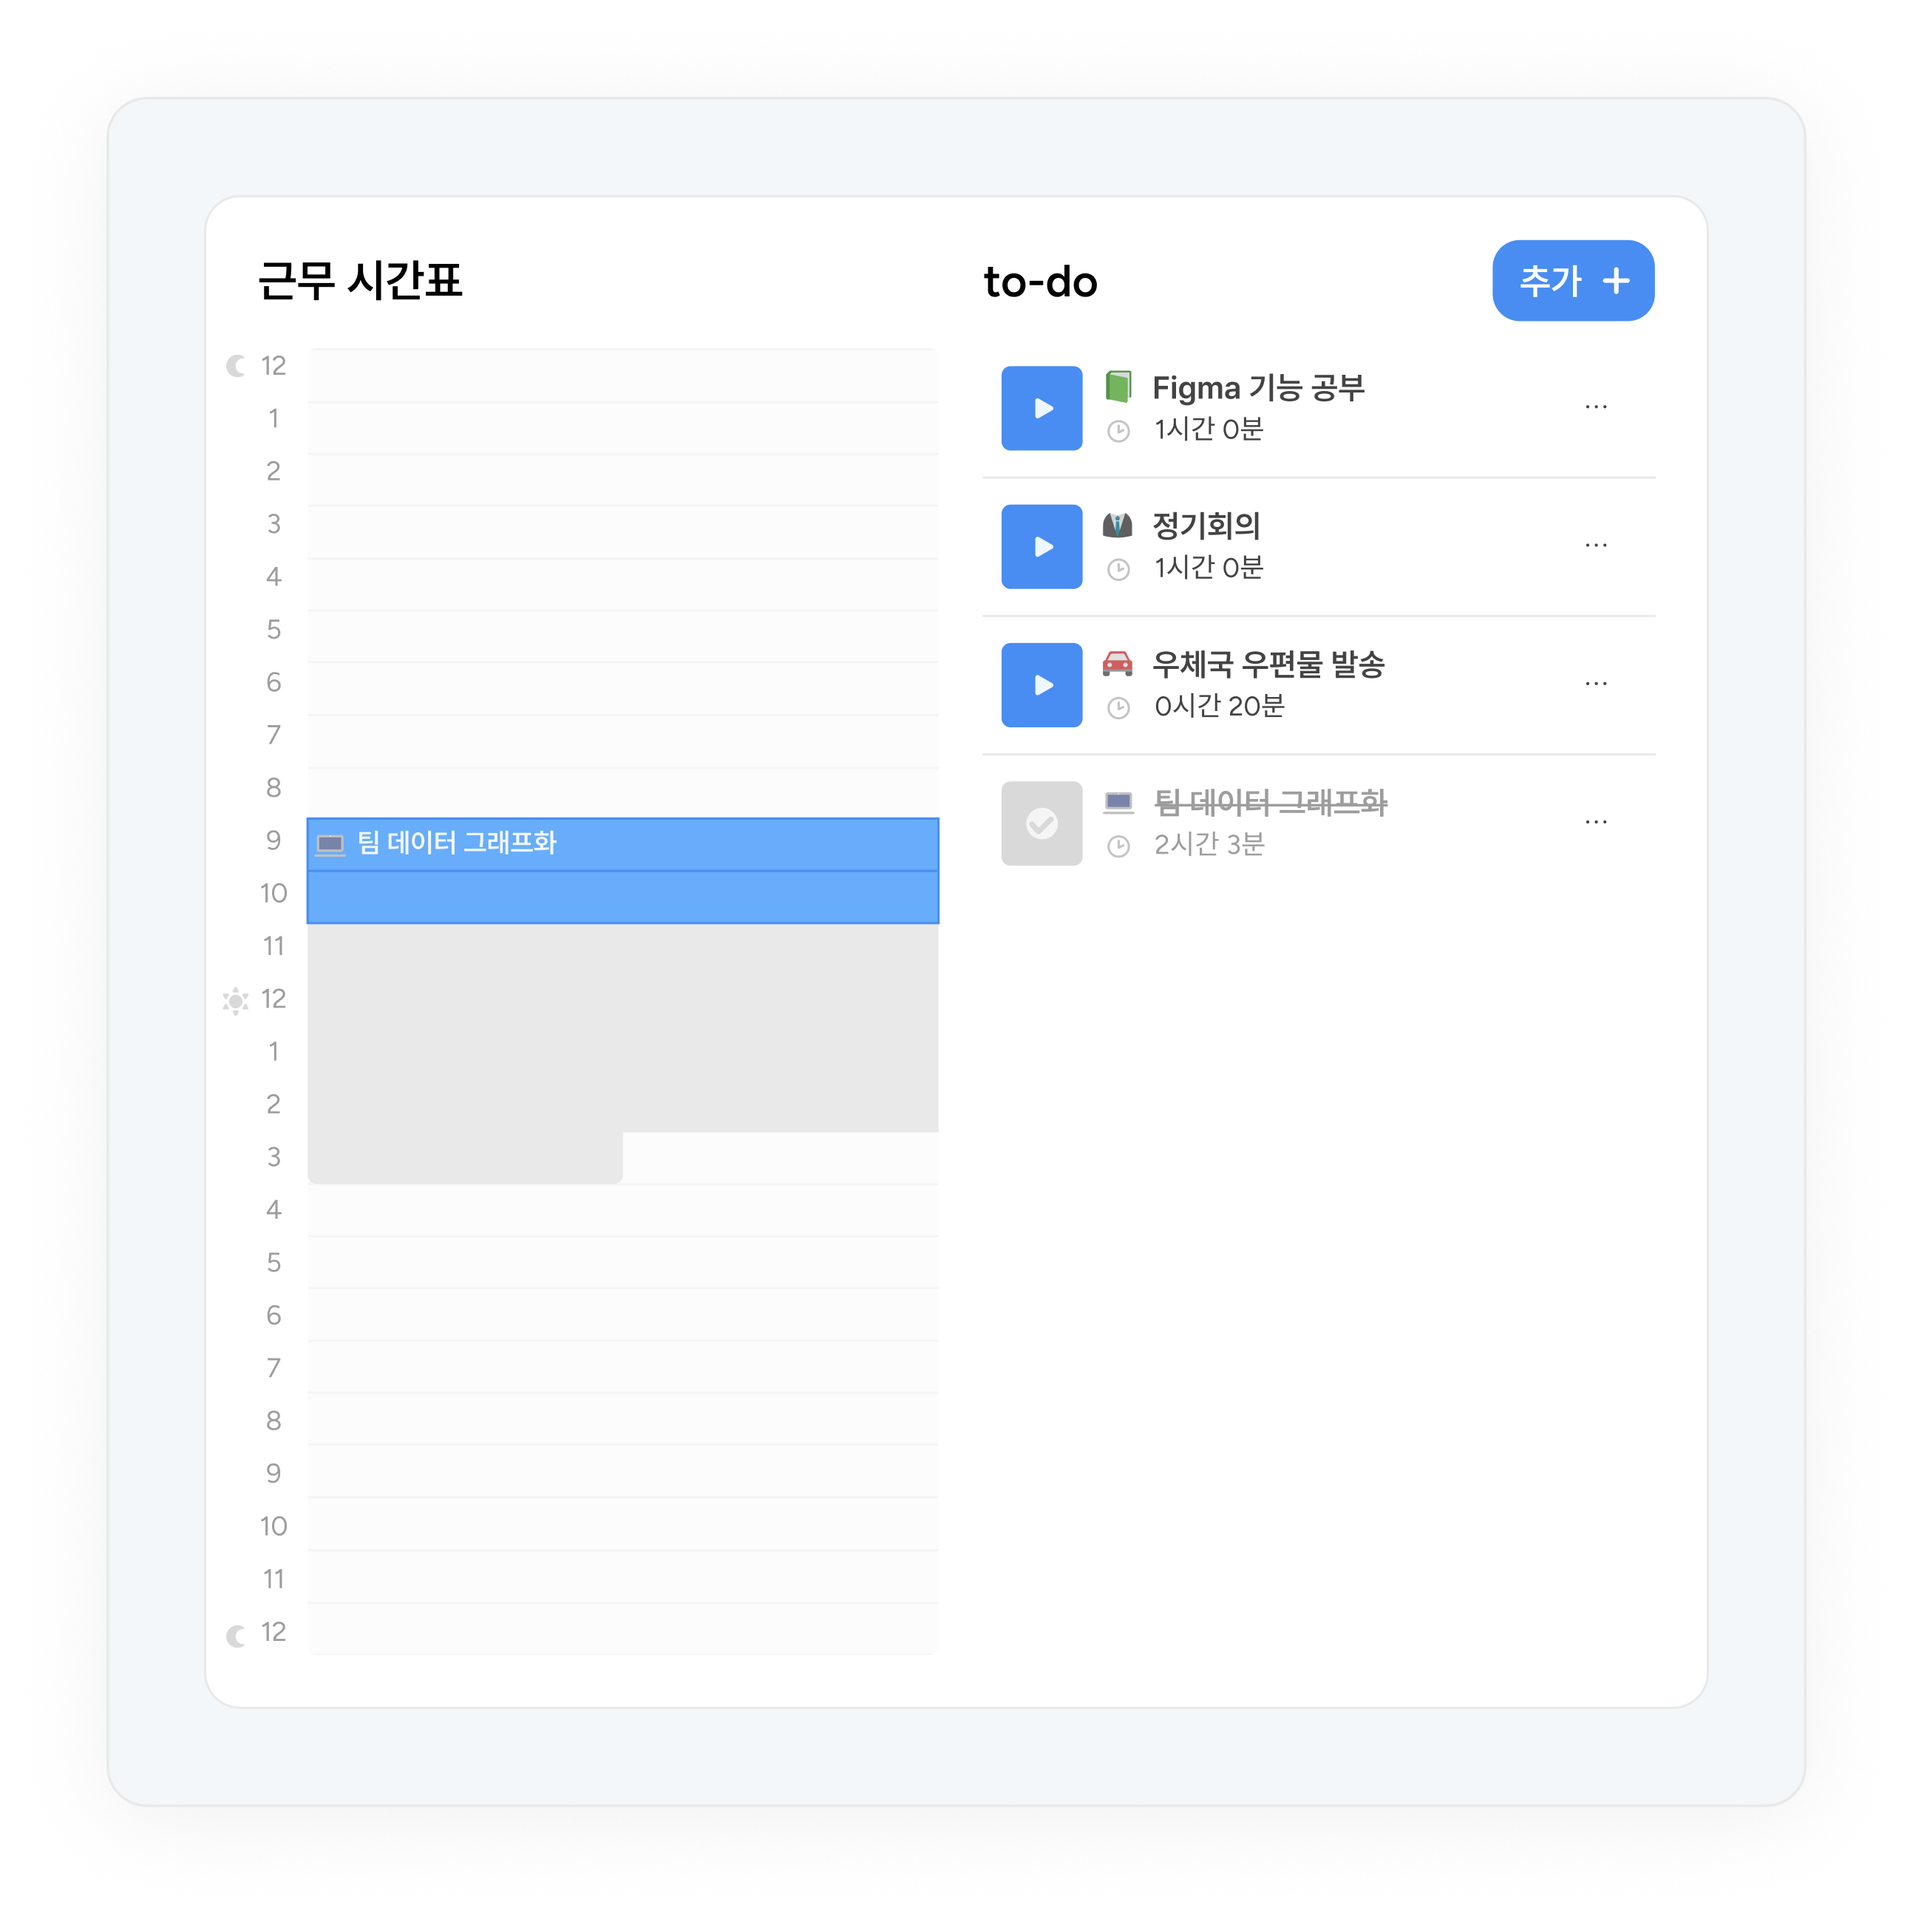
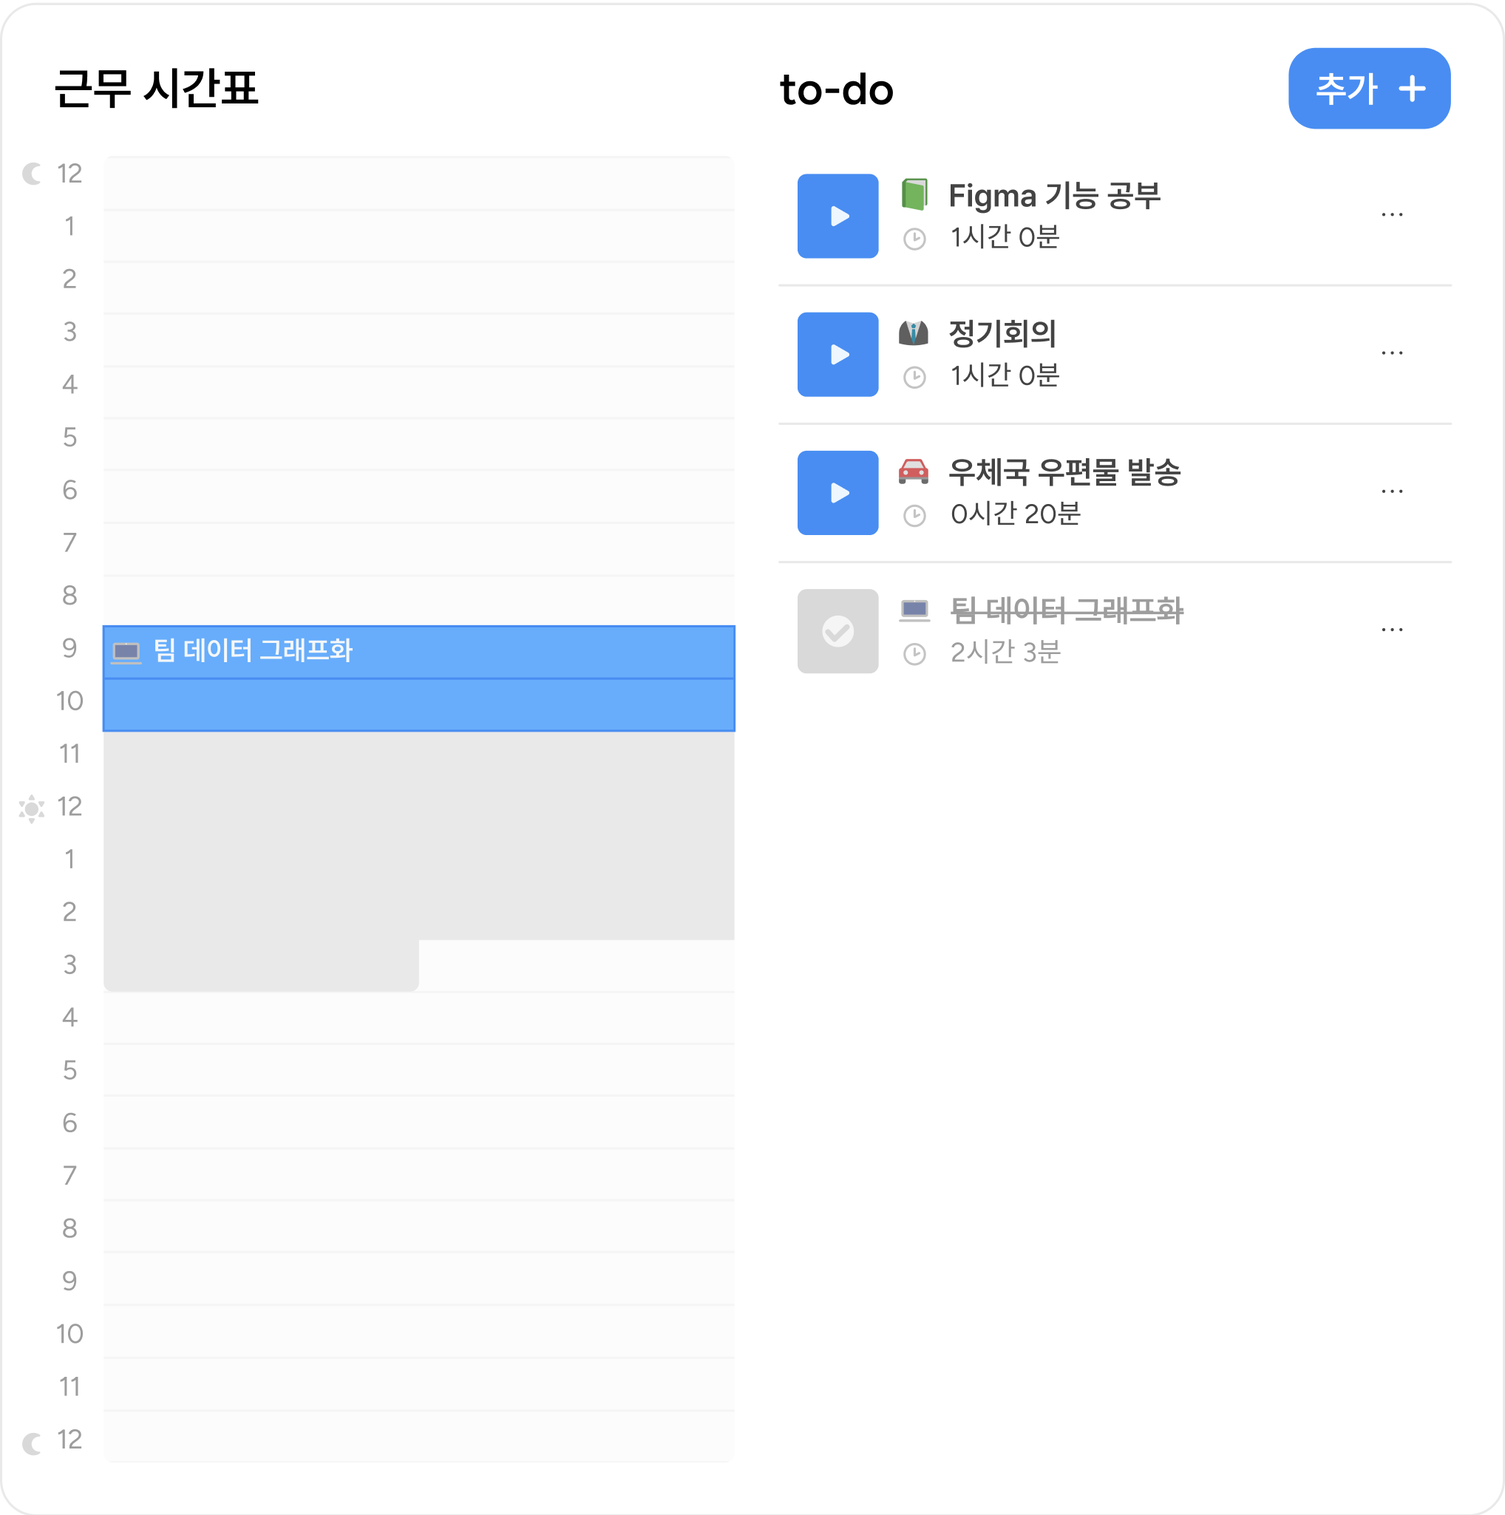
OFZ-46 style: 메인 3페이지 이미지 교체

diff --git a/src/app/page.tsx b/src/app/page.tsx
@@ -3,9 +3,15 @@
 import Image from 'next/image';
 import Header from '@/components/Header';
 import thumbnail from '../../public/thumbnail.png';
+import main_dashboard from 'public/main-dashboard.png';
+import main_todo from 'public/main-todo.png';
+import main_retro from 'public/main-retrospective.png';
+import main_ywt from 'public/main-ywt.png';
+import main_recap from 'public/main-recap.png';
 import TitleDesc from '@/components/TitleDesc';
 import {
   DASHBOARD_MAIN,
+  RECAP_MAIN,
   RECOMMEND_MAIN,
   RETROSPECT_MAIN,
   TODO_MAIN,
@@ -71,8 +77,8 @@ export default function MainPage() {
           />
           <div className={styles['second-main-image-wrapper']}>
             <Image
-              src={thumbnail}
-              alt="임시 이미지"
+              src={main_dashboard}
+              alt="메인 - 대시보드"
               className={styles['second-main-image']}
             />
           </div>
@@ -88,21 +94,21 @@ export default function MainPage() {
               />
             </section>
             <Image
-              src={thumbnail}
-              alt="임시 이미지"
+              src={main_todo}
+              alt="메인 - 투두"
               className={styles['third-main-image']}
             />
           </section>
         </section>
         <section className={styles['fourth-main']}>
           <Image
-            src={thumbnail}
-            alt="임시 이미지"
+            src={main_retro}
+            alt="메인 - 회고"
             className={styles['fourth-main-image']}
           />
           <Image
-            src={thumbnail}
-            alt="임시 서브 이미지"
+            src={main_ywt}
+            alt="메인 - YWT 회고"
             className={styles['fourth-main-sub-image']}
           />
           <section className={styles['fourth-main-text']}>
@@ -114,7 +120,16 @@ export default function MainPage() {
             />
           </section>
         </section>
-        <section className={styles['fifth-main']} />
+        <section className={styles['fifth-main']}>
+          <section className={styles['fifth-main-text']}>
+            <p className={styles['main-index']}>{RECAP_MAIN.index}</p>
+            <TitleDesc
+              title={RECAP_MAIN.title}
+              desc={RECAP_MAIN.desc}
+              sort="center"
+            />
+          </section>
+        </section>
         <section className={styles['sixth-main']}>
           <TitleDesc
             title={RECOMMEND_MAIN.title}

diff --git a/src/app/page.module.css b/src/app/page.module.css
@@ -41,9 +41,8 @@
 
 .second-main {
   width: 100%;
-  height: 100vh;
+  height: 63.75rem;
   margin-top: 5.25rem;
-  margin-bottom: 6.625rem;
   position: relative;
   display: flex;
   flex-direction: column;
@@ -60,14 +59,14 @@
 
 .second-main-image-wrapper {
   width: 100%;
-  height: 100%;
+  height: 42.875rem;
   position: relative;
   margin-top: 4rem;
 }
 
 .second-main-image {
-  width: 73%;
-  height: 58%;
+  width: 62.5rem;
+  height: 36.25rem;
   border-radius: 1.91206rem;
   object-fit: cover;
   box-shadow: 0px 3.824px 42.065px 0px rgba(0, 0, 0, 0.08);
@@ -75,7 +74,7 @@
 
 .third-main {
   width: 100%;
-  height: 100vh;
+  height: 48rem;
   position: relative;
   display: flex;
   background-color: var(--blue-greyish);
@@ -85,7 +84,7 @@
 
 .third-main-content {
   width: 73%;
-  height: 64%;
+  height: 36.1875rem;
   display: flex;
   justify-content: space-between;
   align-items: center;
@@ -99,29 +98,29 @@
   width: 60%;
   height: 100%;
   object-fit: cover;
+  border: 33px solid var(--blue-greyish);
   border-radius: 1.75rem;
   box-shadow: 0px 3.824px 42.065px 0px rgba(0, 0, 0, 0.08);
 }
 
 .fourth-main {
   width: 100%;
-  height: 100vh;
+  height: 48rem;
   position: relative;
   padding: 0 11.44rem;
 }
 
 .fourth-main-image {
-  width: 53%;
+  width: 33.1875rem;
   height: 100%;
   object-fit: cover;
 }
 
 .fourth-main-sub-image {
-  width: 53%;
-  height: 25%;
+  width: 45.125rem;
+  height: 12.125rem;
   object-fit: cover;
   border-radius: 2rem;
-  border: 1px solid #ededed;
   box-shadow: 0px 8px 44px 0px rgba(0, 0, 0, 0.04);
   position: absolute;
   top: 8.5rem;
@@ -136,8 +135,16 @@
 
 .fifth-main {
   width: 100%;
-  height: 100vh;
+  height: 62.625rem;
   position: relative;
+}
+
+.fifth-main-text {
+  text-align: center;
+  margin-top: 6.75rem;
+}
+
+.fifth-main-content {
 }
 
 .sixth-main {
